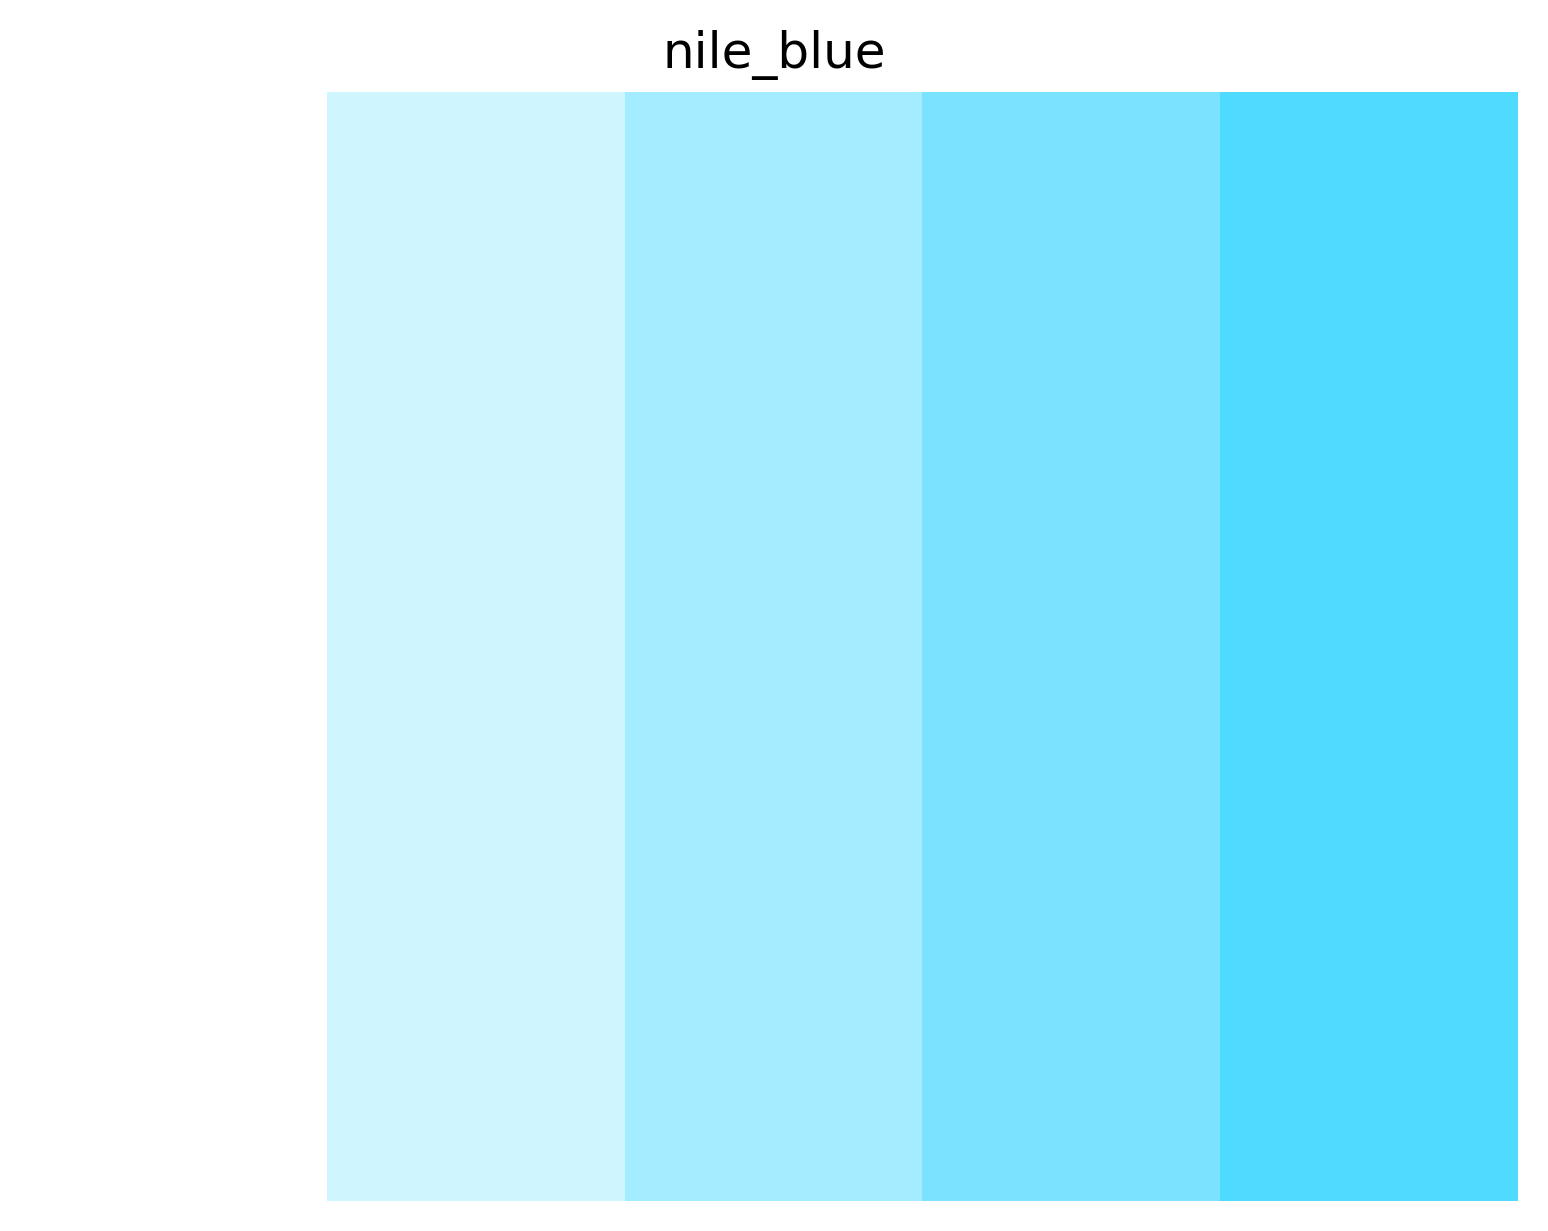
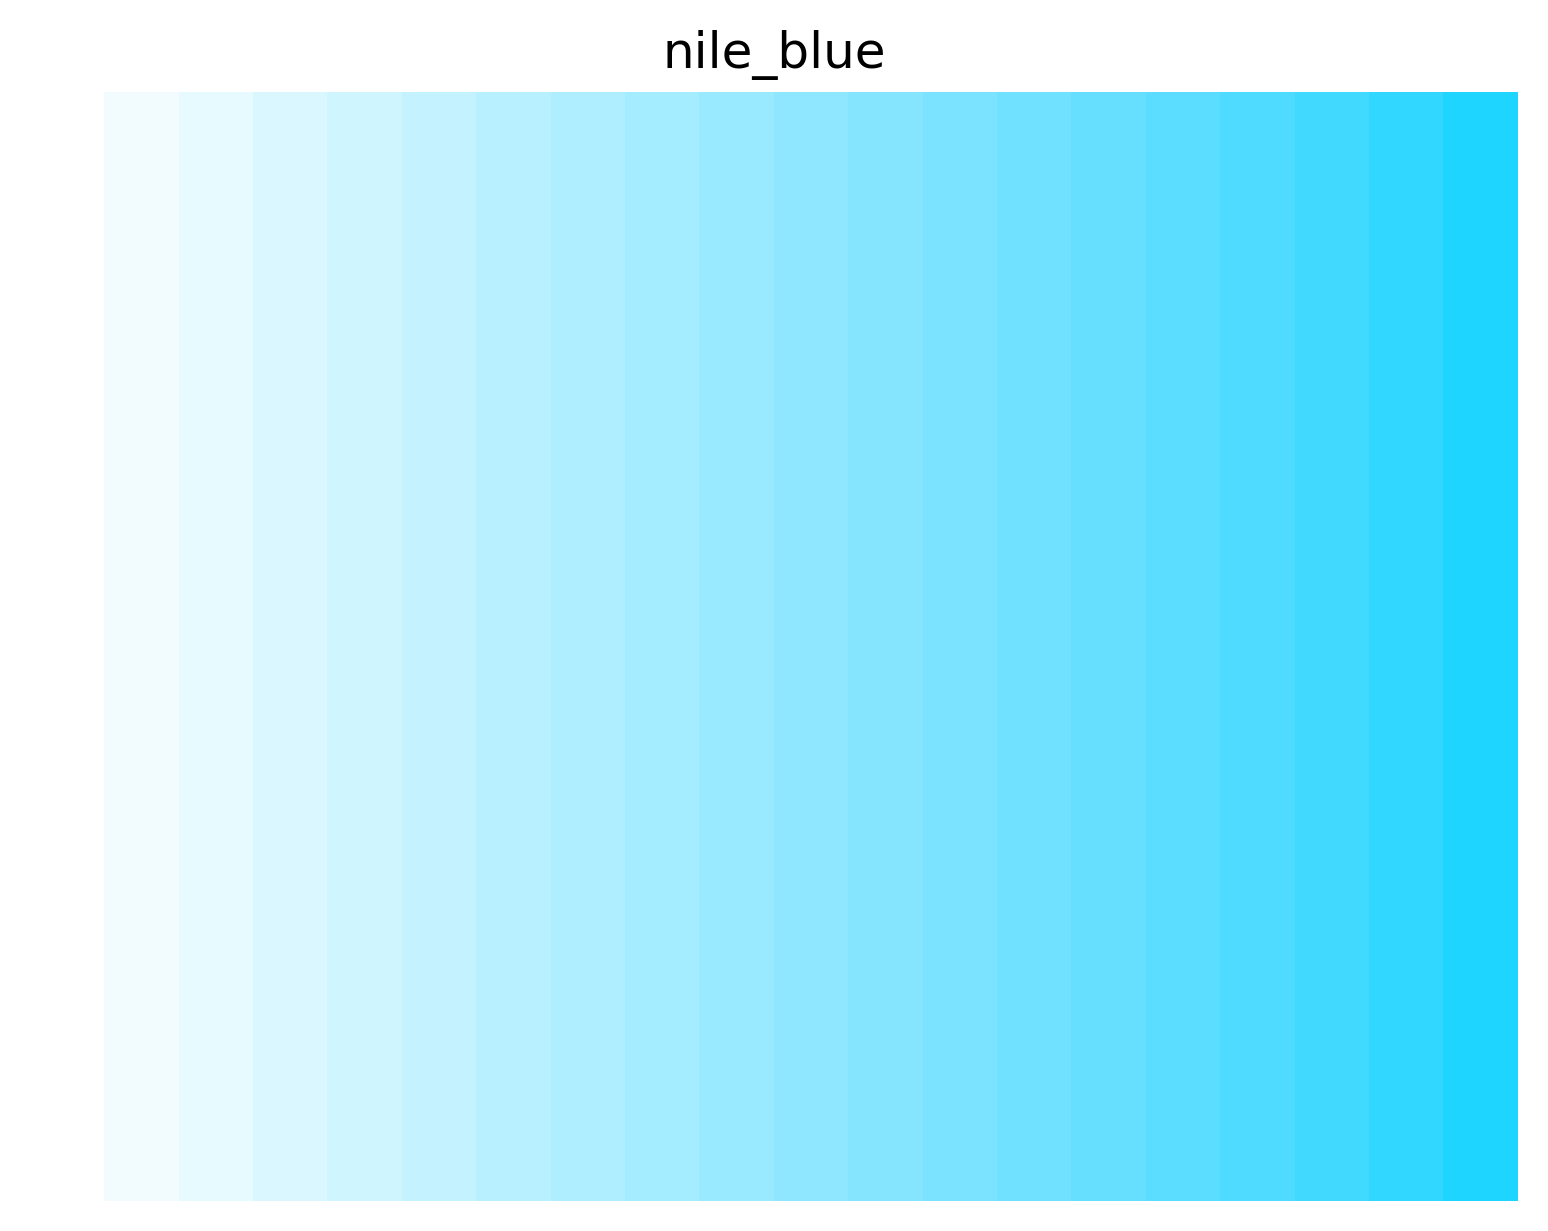
modificati i parametri

diff --git a/script.py b/script.py
@@ -5,7 +5,7 @@ from scipy.integrate import simps
 
 def main():
     illuminant_file = 'd65'
-    spectra_name = 'nile_blue'
+    spectra_name = 'nile_red'
 
     illuminant = np.loadtxt('illuminant/'+illuminant_file+'.csv', delimiter=',')
     spectra = np.loadtxt('spectra/'+spectra_name+'.txt', delimiter='\t')
@@ -17,7 +17,7 @@ def main():
     while True:
         XYZ_val = XYZ(illuminant, spectra, density)
         RGB_val = XYZ_to_sRGB(XYZ_val)
-        density += 40.0
+        density += 200.0
         if RGB_val[0] == 0 or RGB_val[1] == 0 or RGB_val[2] == 0:
             break
         colors = np.append(colors, [[int(RGB_val[0]*255), int(RGB_val[1]*255), int(RGB_val[2]*255)]], axis=0)
